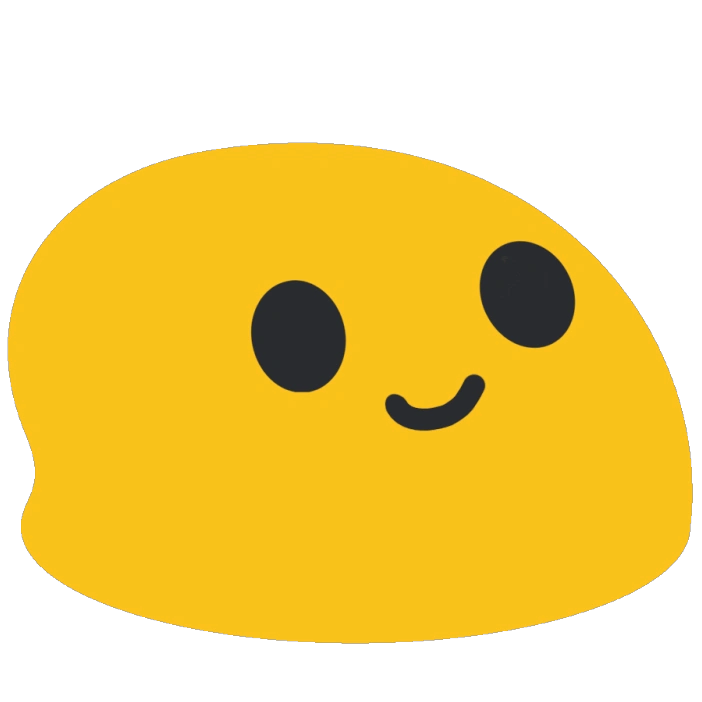
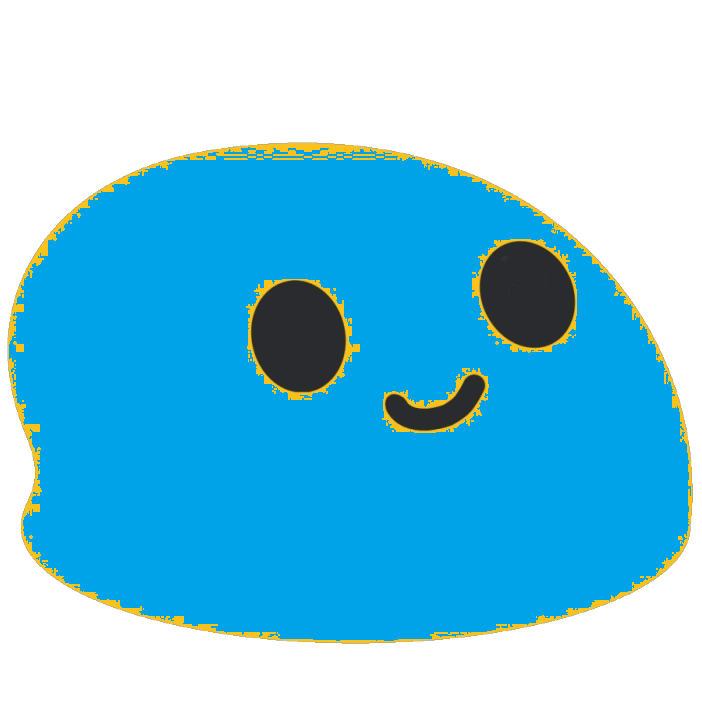
visual simulation v4 with plots and gifs ready

diff --git a/simulation.py b/simulation.py
@@ -1,19 +1,21 @@
 import random
+
 import numpy as np
 import pygame
 from matplotlib import pyplot as plt
-from config import Config 
-from blob import BlobState, Blob, BlobGene
-from home import Home
-from statistics import Statistics, Day
-from tree import Tree
-from visual_simulation import Grid, draw_grid
-
 from pygame.locals import (
     K_RIGHT,
     KEYDOWN,
     QUIT,
+    K_ESCAPE
 )
+
+from blob import BlobState, Blob, BlobGene
+from config import Config
+from home import Home
+from statistics import Statistics, Day
+from tree import Tree
+from visual_simulation import draw_grid
 
 config = Config.get_instance()
 
@@ -34,7 +36,7 @@ def simulation():
     pygame.Surface.convert_alpha(config.IMAGES['DEAD'])
     pygame.Surface.convert_alpha(config.IMAGES['RUN_AWAY'])
 
-    time_delay = 5000  # 0.1 s
+    time_delay = config.AUTORUN_TIME_DELAY
     timer_event = pygame.USEREVENT + 1
     pygame.time.set_timer(timer_event, time_delay)
 
@@ -44,10 +46,9 @@ def simulation():
     step = -1
     while running:
         for event in pygame.event.get():
-            if event.type == QUIT:
+            if event.type == QUIT or event.type == KEYDOWN and event.key == K_ESCAPE or step >= config.STEPS:
                 running = False
-            if event.type == KEYDOWN:
-                if event.key == K_RIGHT:
+            elif event.type == KEYDOWN and event.key == K_RIGHT or event.type == timer_event and config.AUTORUN:
                     step += 1
                     num_of_trees = config.TREES_GRID_SIZE ** 2
                     trees = generate_trees(num_of_trees)
@@ -82,7 +83,6 @@ def simulation():
                             else:
                                 action_blob.state = BlobState.RUN_AWAY
                                 passive_blob.state = BlobState.DEAD
-                            print(f'{tree.blobs[0].state}\t{tree.blobs[1].state}')
                         # if there is one blob near tree he always run away
                         elif tree.predator and len(tree.blobs) == 1:
                             tree.blobs[0].state = BlobState.RUN_AWAY
@@ -121,22 +121,29 @@ def simulation():
 
     pygame.quit()
 
+    save_txt_file()
     plot(statistics)
     print('hehe')
 
 
 def plot(statistics):
     fig, ax = plt.subplots(figsize=[10, 5])
-    ax.plot(list(map(lambda day: day.altruistic_population, statistics.days)), color='b', label='alt')
-    ax.plot(list(map(lambda day: day.cowardice_population, statistics.days)), color='r', label='cow')
+    ax.plot(list(map(lambda day: day.altruistic_population, statistics.days)), color='g', label='green beard')
+    ax.plot(list(map(lambda day: day.cowardice_population, statistics.days)), color='y', label='cowardice')
     ax.legend()
     ax.set_xlabel('Days')
     ax.set_ylabel('Population')
-    title = ax.set_title(str(config))
+    title = ax.set_title('Population change')
     fig.tight_layout()
     title.set_y(1.05)
-    fig.subplots_adjust(top=0.65)
+    # fig.subplots_adjust(top=0.65)
     plt.show()
+    fig.savefig((config.PLOT_PATH / config.SIMULATION_NAME))
+
+
+def save_txt_file() -> None:
+    with open((config.PLOT_PATH / f'{config.SIMULATION_NAME}.txt'), 'w') as f:
+        f.write(str(config))
 
 
 def assign_blobs_and_trees(trees, home):

diff --git a/config.py b/config.py
@@ -1,4 +1,5 @@
 import pygame
+from pathlib import Path
 
 
 class Config:
@@ -7,27 +8,28 @@ class Config:
     def __init__(self):
         self.NUMBER_OF_BLOBS = 50
         self.NUMBER_OF_TREES = 225
-        self.PROB_BAD_TREE = 0.6
-        self.PROB_GET_EATEN = 0.5
+        self.PROB_BAD_TREE = 0.5
+        self.PROB_GET_EATEN = 0.9
         self.PROB_DOUBLE_REPRODUCE = 0.3
-        self.ALTRUISTIC_GENE_FRACTION = 0.5
-        self.STEPS = 200
+        self.ALTRUISTIC_GENE_FRACTION = 0.2
+        self.STEPS = 240
         self.GREEN_BEARD = True
         self.TREES_GRID_SIZE = 15
         self.BLOBS_GRID_SIZE = 20
-        self.SLEEP = 2
+        self.SLEEP = 0.05  # s
+        self.AUTORUN_TIME_DELAY = 1  # ms
         self.AUTORUN = True
         self.BLOB_ANNOTATION_SIZE = (25, 25)
+        self.SIMULATION_NAME = 'green_beard_4'
+        self.PLOT_PATH = Path('plots')
 
         self.IMAGES = {
-            "ALTRUISTIC": pygame.transform.scale(pygame.image.load('./imgs/blob_altruistic.png'), (17, 17)),
-            "COWARDICE": pygame.transform.scale(pygame.image.load('./imgs/blob_coward.png'), (17, 17)),
+            "ALTRUISTIC": pygame.transform.scale(pygame.image.load('imgs/blob_green.png'), (17, 17)),
+            "COWARDICE": pygame.transform.scale(pygame.image.load('imgs/blob_cowardice.png'), (17, 17)),
             "SHOUT": pygame.transform.scale(pygame.image.load('./imgs/shouting.png'), self.BLOB_ANNOTATION_SIZE),
             "DEAD": pygame.transform.scale(pygame.image.load('./imgs/rip_blob.png'), self.BLOB_ANNOTATION_SIZE),
             "RUN_AWAY": pygame.transform.scale(pygame.image.load('./imgs/omg.png'), self.BLOB_ANNOTATION_SIZE)
         }
-
-
 
     def __str__(self):
         return_str = ""

diff --git a/visual_simulation.py b/visual_simulation.py
@@ -2,6 +2,8 @@ import random
 from time import sleep
 import numpy as np
 import pygame
+
+from blob import BlobState
 from config import Config
 
 config = Config.get_instance()
